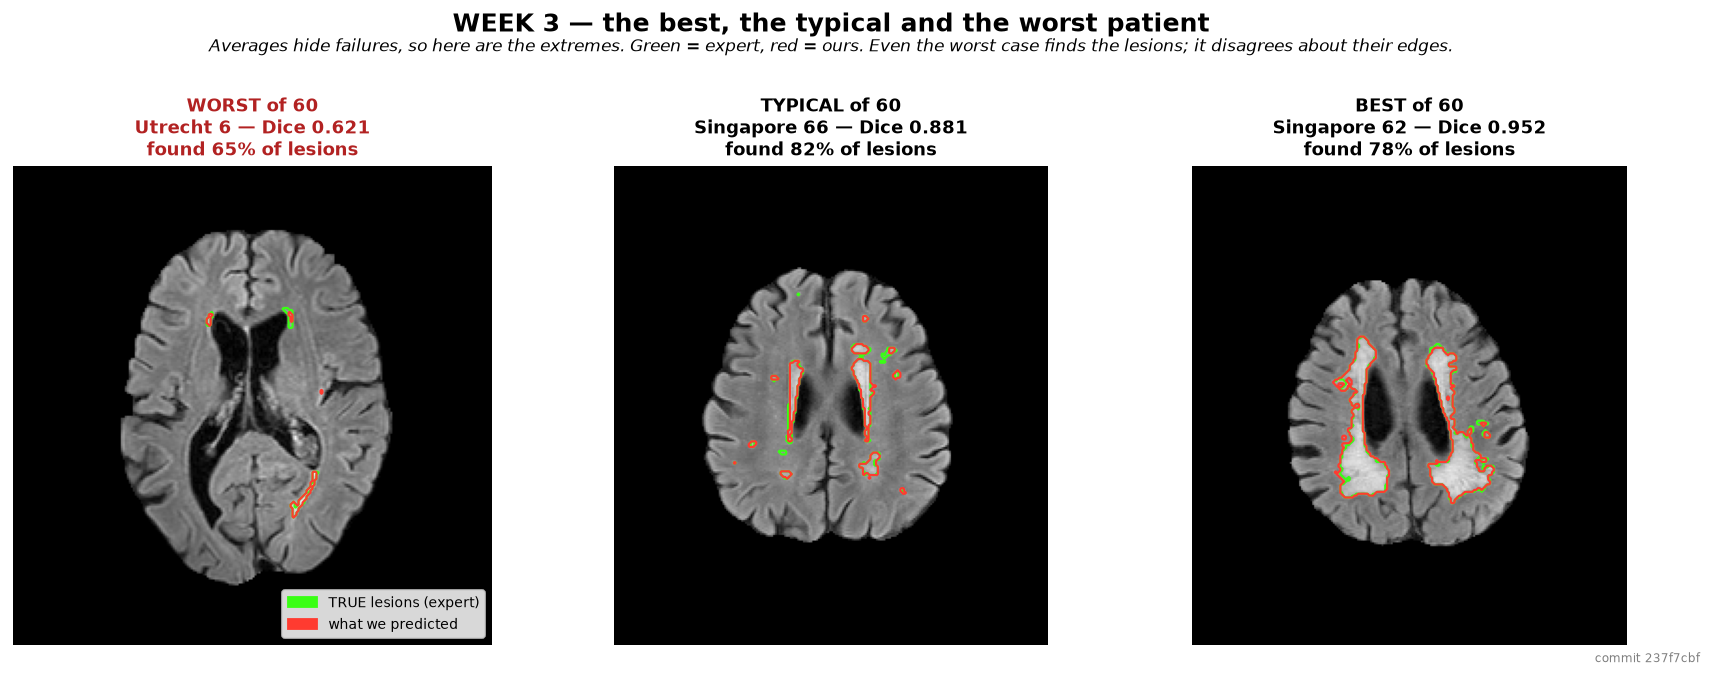
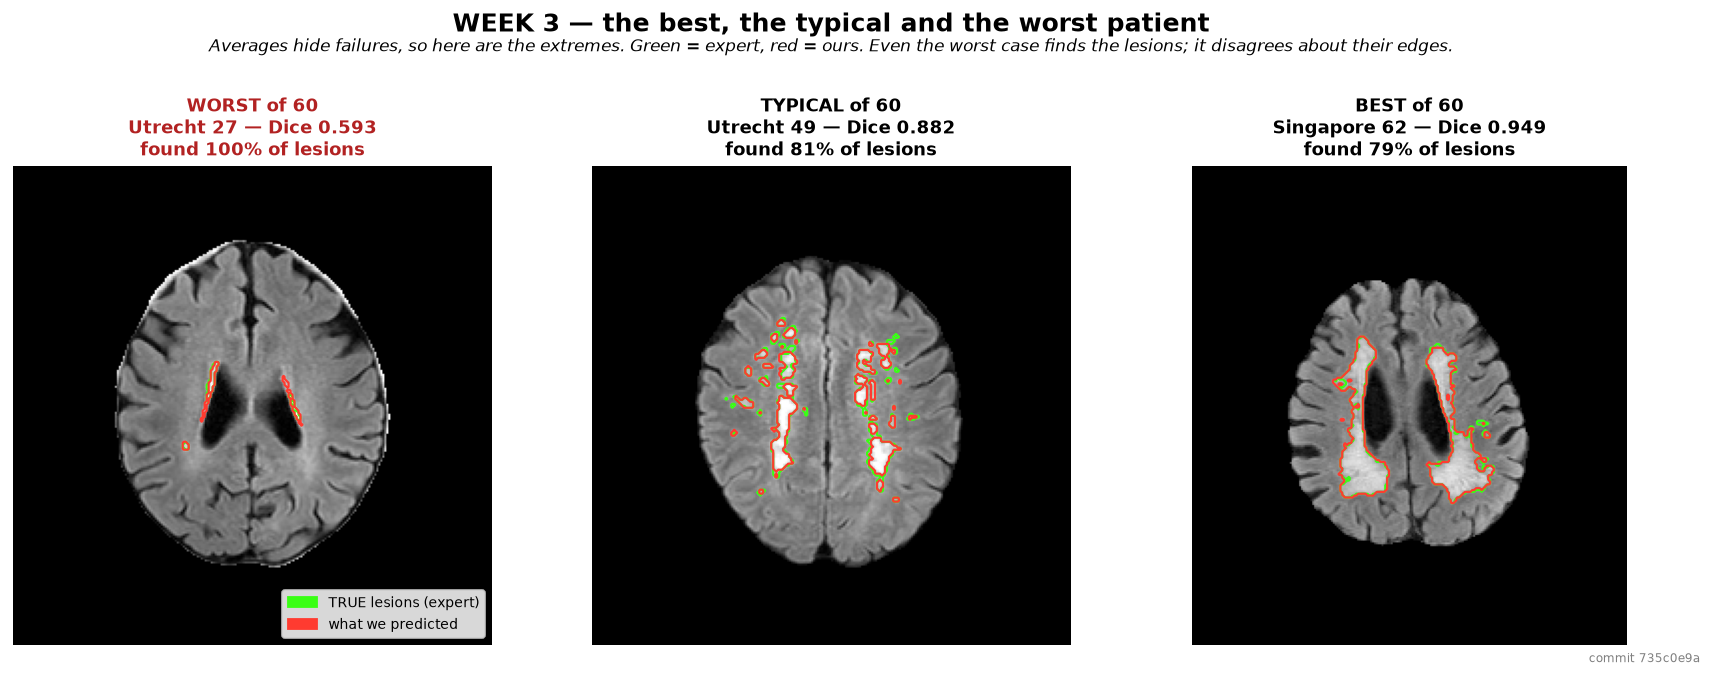
week 3 figures: show the model we are actually using
The pictures were already drawn from the current four-network predictions,
but the Dice printed beside them came from the older single network, so the
number and the outline disagreed. Both now come from the same model, and the
labels say which model it is.

diff --git a/code/segmentation/make_outputs.py b/code/segmentation/make_outputs.py
@@ -130,15 +130,16 @@ def figure_a_vs_c(scores, commit, logger):
         axes[row, 1].axis("off")
 
         case.panel(axes[row, 2])
-        axes[row, 2].set_title(f"METHOD 2: neural network\nDice {row_scores.dice:.3f}",
-                               fontsize=10, fontweight="bold")
+        axes[row, 2].set_title(
+            f"METHOD 2: four neural networks, combined\nDice {row_scores.dice:.3f}",
+            fontsize=10, fontweight="bold")
         if row == 0:
             _legend(axes[row, 2])
 
-    _stamp(fig, "WEEK 3 — finding the lesions: simple method vs neural network",
-           "Green = the expert's answer. Red = ours. The middle column marks far too much; "
-           "the right column tracks the green closely. Held-out patients the network never "
-           "trained on. Dice 0.43 -> 0.81.", commit)
+    _stamp(fig, "Finding the lesions: simple method vs the neural network",
+           "Green = the expert's answer, red = ours, on held-out patients the model never "
+           "trained on. Method 2 is the current model: four augmented networks combined by "
+           "voting. Mean Dice across the 12 held-out patients: 0.43 -> 0.80.", commit)
     fig.tight_layout(rect=(0, 0, 1, 0.94))
     _save(fig, WEEK3 / "00-overview" / "simple-method-vs-neural-network.png", commit, logger)
 
@@ -246,9 +247,9 @@ def figure_scores(scores, commit, logger):
     colours = {"Amsterdam": "#4C72B0", "Singapore": "#DD8452", "Utrecht": "#55A868"}
 
     sites = list(colours)
-    axes[0].bar([f"Method 1\n(cut-off)", "Method 2\n(network)"], [0.4291, 0.8056],
+    axes[0].bar([f"Method 1\n(cut-off)", "Method 2\n(4 networks)"], [0.4291, 0.8038],
                 color=["#999999", "#2E7D32"], width=0.55)
-    for x, value in enumerate([0.4291, 0.8056]):
+    for x, value in enumerate([0.4291, 0.8038]):
         axes[0].text(x, value + 0.02, f"{value:.3f}", ha="center", fontsize=12,
                      fontweight="bold")
     axes[0].set(ylim=(0, 1), ylabel="Dice (1.0 = perfect)",
@@ -285,7 +286,11 @@ def figure_scores(scores, commit, logger):
 def main() -> None:
     logger = setup_logging(SCRIPT_NAME, OUTPUTS_DIR)
     commit = get_git_commit_hash()
-    scores = pd.read_csv(OUTPUTS_DIR / "route_c_scores.csv")
+    # The ENSEMBLE scores, not route_c_scores.csv. `Case.pred` loads pred_wmh
+    # from disk, and run_ensemble.py overwrote those with the four-network
+    # augmented predictions — so reading the old single-network scores printed a
+    # Dice that did not belong to the contours being drawn beside it.
+    scores = pd.read_csv(OUTPUTS_DIR / "ensemble_scores.csv")
 
     logger.info("writing Week 3 gallery to %s", WEEK3)
     figure_a_vs_c(scores, commit, logger)
